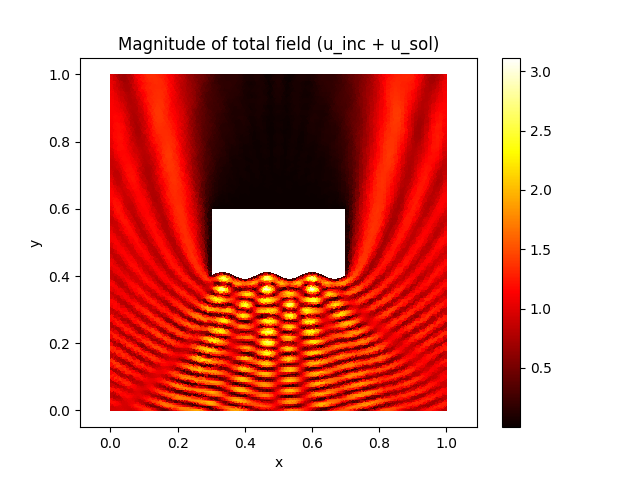
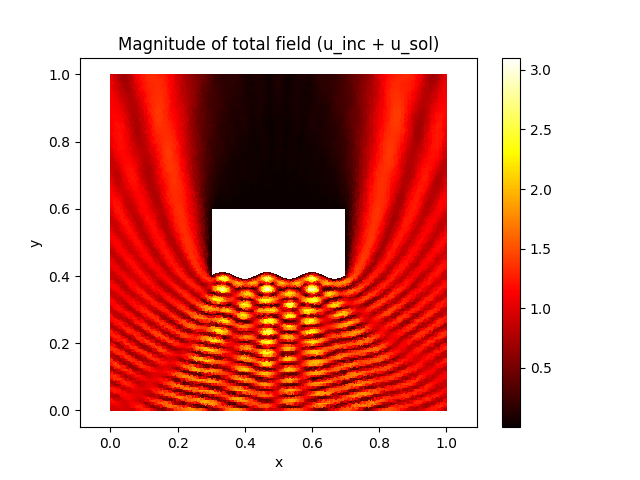
update script

diff --git a/opt_obstacle_one_planewave/opt_script.py b/opt_obstacle_one_planewave/opt_script.py
@@ -29,12 +29,12 @@ os.chdir(script_dir)
 #msh_file_path = "meshes/square_with_sym_exp_perturbed_rect.msh"
 msh_file_path = "meshes/square_with_rect_obstacle.msh"
 #goal_geometry_msh_path = "meshes/square_with_sym_exp_perturbed_rect.msh"
-forward_sim_result_file_path = "forward_sim_data_bottom.csv"
-result_path = "outputs/result_sym_exp_500.h5"
+forward_sim_result_file_path = "matlab_measurement.csv"
+result_path = "outputs/result_sin_freq3_matlab.h5"
 
 frequency = 5e9
 incident_field_func = plane_wave
-hh_setup = HelmholtzSetup(frequency, incident_field_func, 500)
+hh_setup = HelmholtzSetup(frequency, incident_field_func)
 
 # Initialization by copying the mesh we want to perform the forward sim on and
 # get the first initial guesses of h (all zero by default)
@@ -44,7 +44,7 @@ reference_data_map = preprocess_reference_data(V_DG0_initial, forward_sim_result
 
 # Solve the forward problem
 u_tot_mag_dg0, ds_bottom, V_DG0 = helmholtz_solve(mesh, markers, h, hh_setup,
-                                                             obstacle_marker, side_wall_marker, bottom_wall_marker, )
+                                                             obstacle_marker, side_wall_marker, bottom_wall_marker)
 # Load reference data
 u_ref_dg0 = assign_reference_data(V_DG0, reference_data_map)
 
